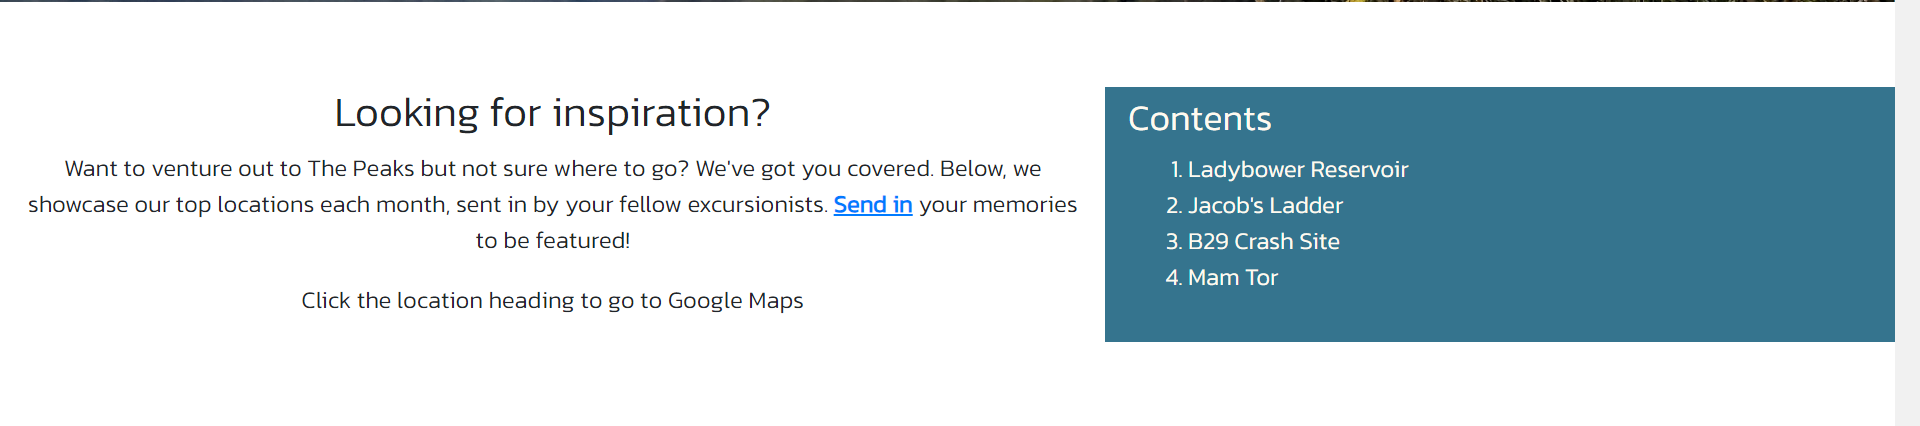
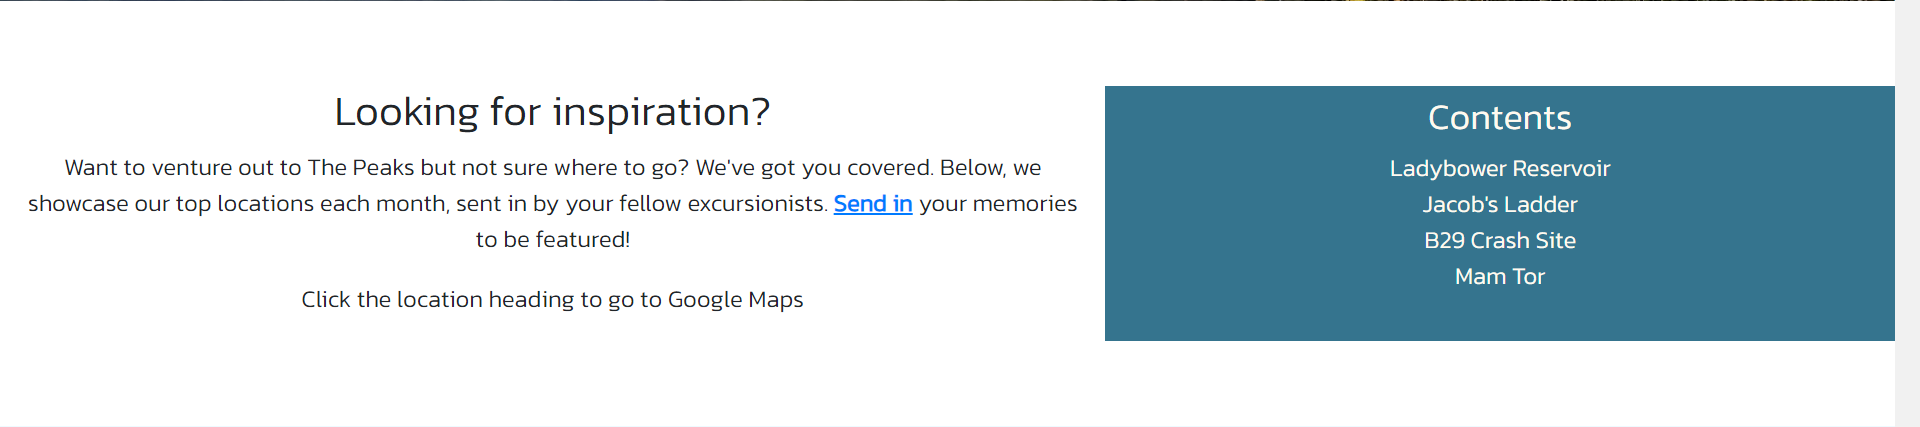
screenshots of visit section 1 updated. Description of decisions made added.

diff --git a/README.md b/README.md
@@ -111,3 +111,5 @@ As stated above, this section on small screens contains both images. The light b
 
 ![Visit page section 1 - medium and large](assets/images/visit-section1-lg.png)
 ![Visit page section 1 - small](assets/images/visit-section1-sm.png)
+
+The first section of visit.html contains an introduction to the page and a contents box. These are paced in a bootstrap grid systen of two columns on medium and larger screens, and are set to take up the full width of small screens. The contents box has the same colour scheme as the navigation bar and footer to make it stand out.
